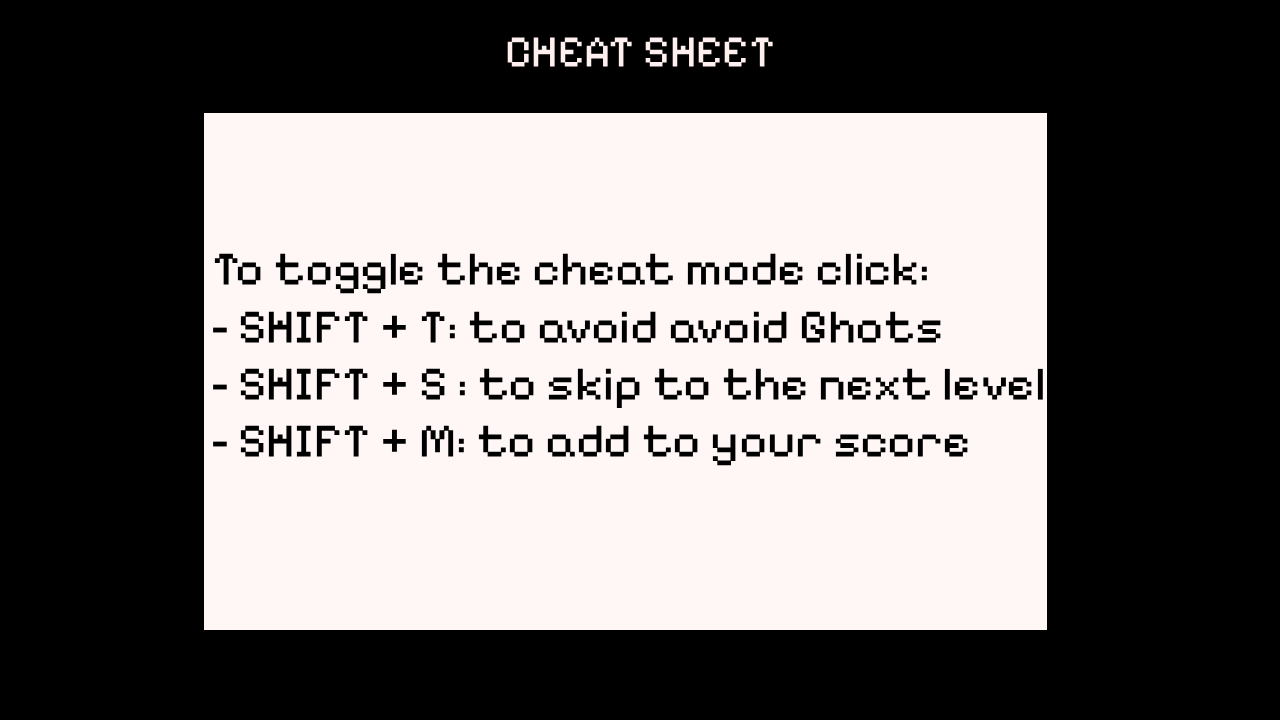
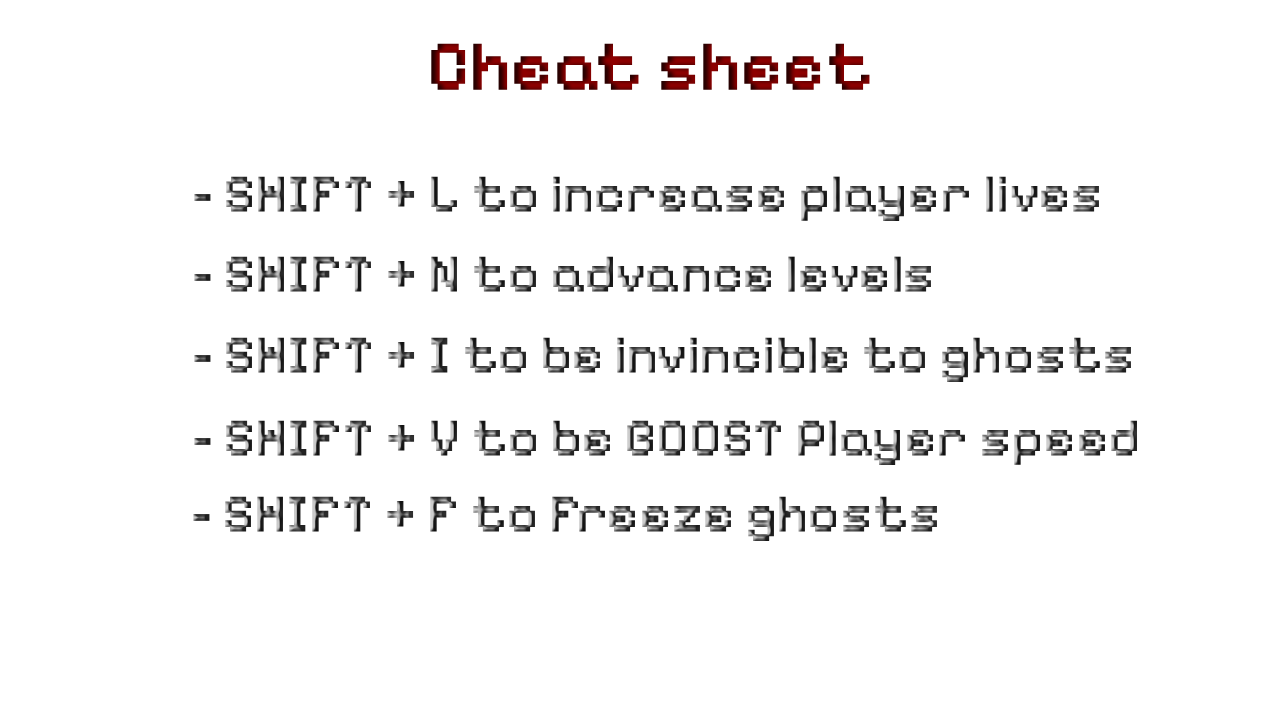
WIP: fixed all the errors, working on type hints and mypy

diff --git a/src/UI/Gameplay.py b/src/UI/Gameplay.py
@@ -78,6 +78,7 @@ class Gameplay:
         self.speed_bost = False
         self.invinsible = False
         self.frozen = False
+        self.get_time = 0
         self.ghost_img = {
             "red": pygame.image.load("img/ghost.png").convert_alpha(),
             "pink": pygame.image.load("img/pink_ghost.png").convert_alpha(),
@@ -245,6 +246,7 @@ class Gameplay:
         Returns:
             "name_entry": when the game is over, otherwise None.
         """
+        self.get_time += dt * 1000
         for event in events:
             for button in self.buttons:
                 if button.handle_event(event):
@@ -266,7 +268,8 @@ class Gameplay:
                 "Congratulation, Type your name to save your score"
             )
             return "name_entry"
-        now = pygame.time.get_ticks()
+        # now = pygame.time.get_ticks()
+        now = self.get_time
         if not self.invinsible:
             lives = self.player.lives
             self.game_state.check_collisions(
@@ -278,7 +281,8 @@ class Gameplay:
         self.animate()
         self.eat_pacgum()
         self.eat_super_pacgum()
-        now = pygame.time.get_ticks()
+        # now = pygame.time.get_ticks()
+        now = self.get_time
         if not self.frozen and now - self.ghost_last_move >= GHOST_DELAY:
             for ghost in self.ghosts_list:
                 ghost.take_turn(self.player.x, self.player.y)
@@ -322,7 +326,7 @@ class Gameplay:
             self.player,
             self.super_pacgums,
             self.ghosts_list,
-            pygame.time.get_ticks(),
+            self.get_time,
             self.config["points_per_super_pacgum"],
         )
 
@@ -402,7 +406,6 @@ class Gameplay:
                 elif event.key == pygame.K_n:
                     self.level_index += 1
                     if self.level_index >= len(self.config["level"]):
-
                         return True
                     self.reset()
                 elif event.key == pygame.K_i:
@@ -444,15 +447,18 @@ class Gameplay:
         """Draw the rotated pacman sprite,
         interpolated between the previous and current cell
         base on time since the last move."""
-        now = pygame.time.get_ticks()
+        # now = pygame.time.get_ticks()
+        now = self.get_time
         player_delay = FAST_PLAYER_DELAY if self.speed_bost else PLAYER_DELAY
         t = min((now - self.last_move) / player_delay, 1.0)
         old_center = self.center_cell(self.player.old_x, self.player.old_y)
         new_center = self.center_cell(self.player.x, self.player.y)
         lerp_x = old_center[0] + (new_center[0] - old_center[0]) * t
         lerp_y = old_center[1] + (new_center[1] - old_center[1]) * t
+        scaled_img = pygame.transform.scale(self.current_image,
+                (self.cell_size / 2, self.cell_size / 2))
         img = pygame.transform.rotate(
-            self.current_image, self.DIRE[self.player.direction]
+            scaled_img, self.DIRE[self.player.direction]
         )
         self.screen.blit(img, img.get_rect(center=(lerp_x, lerp_y)))
 
@@ -523,7 +529,7 @@ class Name_entry:
     highscore file when Enter is pressed.
     """
 
-    def __init__(self, screen, font, score, config) -> None:
+    def __init__(self, screen, font, score, config, buttons) -> None:
         """
         Create the name entry screen.
 
@@ -538,6 +544,7 @@ class Name_entry:
         self.player_name = ""
         self.score = score
         self.config = config
+        self.button = buttons
 
     def update(self, events, dt):
         """
@@ -556,6 +563,9 @@ class Name_entry:
         """
         try:
             for event in events:
+                for button in self.button:
+                    if button.handle_event(event):
+                        return "main_menu"
                 if event.type == pygame.KEYDOWN:
                     if event.key == pygame.K_BACKSPACE:
                         self.player_name = self.player_name[:-1]
@@ -640,6 +650,8 @@ class Name_entry:
         self.screen.blit(text_sur, rect)
         self.screen.blit(score_sur, score_rect)
         self.screen.blit(Game_over, game_rect)
+        for button in self.button:
+            button.draw()
 
 
 class HighScoreScreen:
@@ -654,11 +666,11 @@ class HighScoreScreen:
             config: parse game configuration.
             buttons: Buttons shown on the screen.
         """
-        self.screen = screen
+        self.screen: pygame.Surface = screen
         self.font = font
         self.config = config
         self.button = buttons
-        self.scores_data = []
+        self.scores_data: list[dict] = []
 
     def load_data(self):
         """

diff --git a/src/UI/Game.py b/src/UI/Game.py
@@ -3,8 +3,8 @@ from functools import partial
 import pygame
 
 from src.logic.game_state import GameState
-from UI.Gameplay import Gameplay, HighScoreScreen, Name_entry
-from UI.menu import Menu
+from src.UI.Gameplay import Gameplay, HighScoreScreen, Name_entry
+from src.UI.menu import Menu
 
 WIDTH, HEIGHT = 1280, 720
 FONT_PATH = "img/Pixel Game.otf"
@@ -336,6 +336,18 @@ class Game:
                 font,
                 0,
                 self.config,
+                [
+                    Button(
+                        screen,
+                        550,
+                        650,
+                        200,
+                        50,
+                        font,
+                        "main_menu",
+                        self.switch("main_menu"),
+                    ),
+                ],
             ),
         }
 

diff --git a/pac-man.py b/pac-man.py
@@ -2,7 +2,7 @@ import sys
 
 from src.config_loader import ConfigLoader, ConfigError
 from src.logic.game_state import GameState
-from UI.Game import Game
+from src.UI.Game import Game
 
 
 def main():
